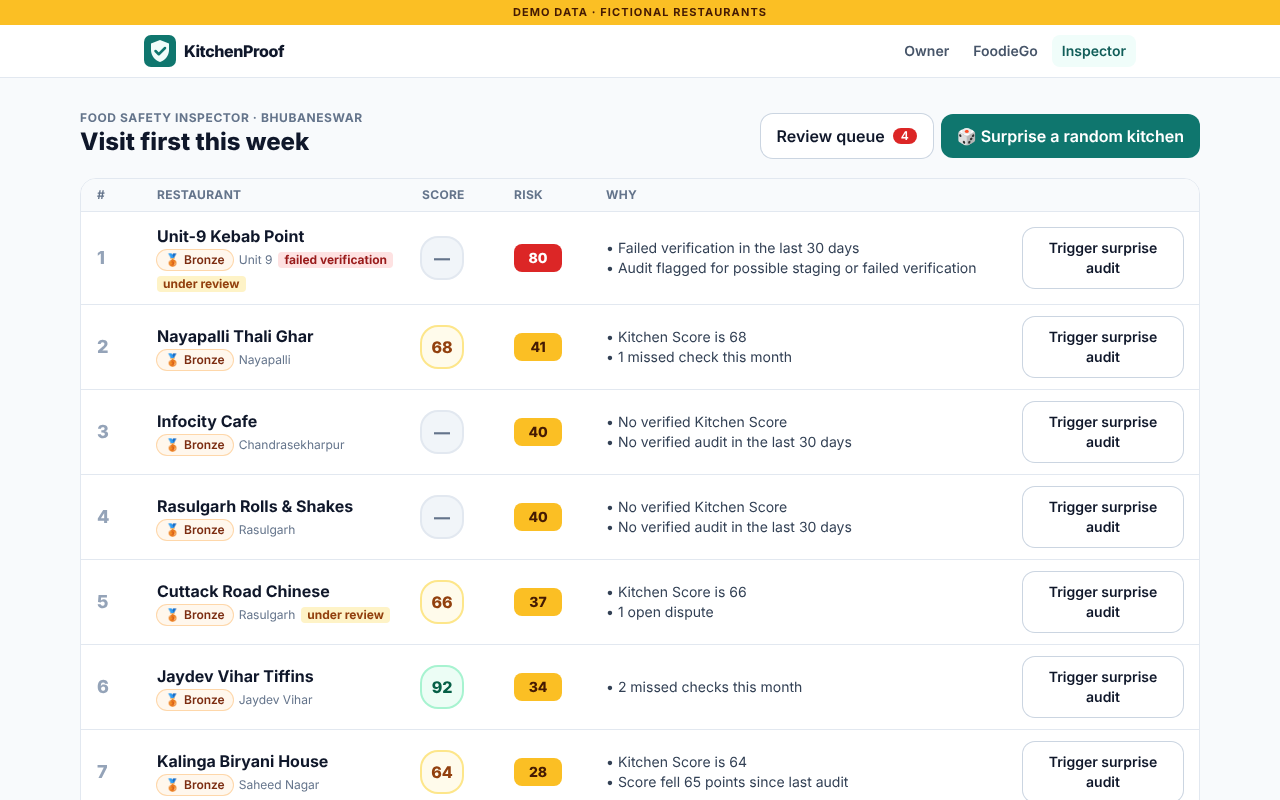
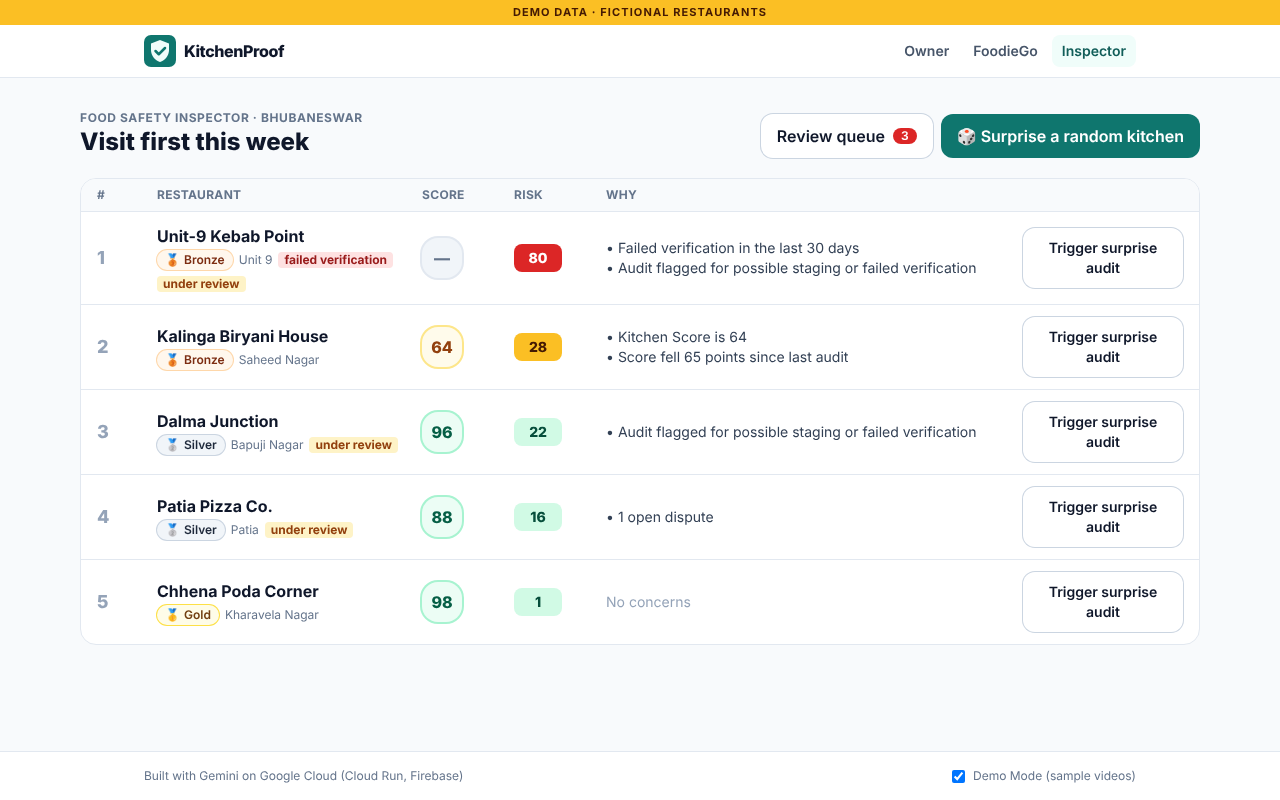
Minimal UI for judges: shorter landing, 5 featured restaurants, less text
Frontend only. Landing keeps the headline, demo button and role cards.
Lists, ranking and review queue show five restaurants that each carry one
part of the story (tour kitchen, Gold, too-perfect flag, failed
verification, open dispute). Tour steps, audit intro and order page text
shortened; risk formula footnote removed. Backend and data unchanged.

Claude-Session: https://claude.ai/code/session_019gZoY9Z6mrtfHUMXc1yJwP

diff --git a/frontend/src/pages/Landing.tsx b/frontend/src/pages/Landing.tsx
@@ -1,105 +1,46 @@
 import { Link, useNavigate } from 'react-router-dom'
 import { useTour } from '../components/Layout'
-import { useConfig } from '../lib/config'
 
 const ROLES = [
-  {
-    to: '/owner?r=r01',
-    emoji: '👩🍳',
-    title: 'Restaurant Owner',
-    text: 'Answer surprise audit requests with a short live phone walk-through. Get a fix list and dispute wrong findings.',
-  },
-  {
-    to: '/customer',
-    emoji: '🛵',
-    title: 'Customer (FoodieGo)',
-    text: 'See a verified Kitchen Score before you order — and request a kitchen check while your food is being made.',
-  },
-  {
-    to: '/inspector',
-    emoji: '🕵',
-    title: 'Food Inspector',
-    text: 'A ranked list of kitchens to visit first, with plain-language reasons and a review queue for disputes and staging flags.',
-  },
-]
-
-const LAYERS = [
-  ['⏱', 'Unannounced', 'Random timing, 10 min to start, 4 min to finish'],
-  ['🎲', 'One check at a time', 'Random checks revealed live by the server'],
-  ['✋', 'Liveness challenge', '“Hold up 3 fingers in front of the stove”'],
-  ['🍳', 'Real order on camera', 'Show order #4521 being made right now'],
-  ['🔍', 'Integrity check', 'Gemini looks for cuts, a different kitchen, “too perfect”'],
-  ['⚖', 'Fair to owners', '“Not verified” ≠ fail; disputes go to a human'],
+  { to: '/owner?r=r01', emoji: '👩🍳', title: 'Restaurant Owner', text: 'Answer a surprise kitchen check' },
+  { to: '/customer', emoji: '🛵', title: 'Customer', text: 'See the kitchen before you order' },
+  { to: '/inspector', emoji: '🕵', title: 'Food Inspector', text: 'Know which kitchen to visit first' },
 ]
 
 export default function Landing() {
   const navigate = useNavigate()
   const [, setTour] = useTour()
-  const { config } = useConfig()
   return (
     <div>
       <section className="bg-gradient-to-b from-brand-900 to-brand-700 text-white">
-        <div className="mx-auto max-w-5xl px-4 py-10 sm:py-16">
-          <p className="text-sm font-semibold uppercase tracking-widest text-brand-200">Surprise kitchen audits · verified by Gemini</p>
-          <h1 className="mt-3 max-w-3xl text-3xl font-extrabold leading-tight sm:text-5xl">
-            See the kitchen before you order.
-          </h1>
-          <p className="mt-4 max-w-2xl text-base text-brand-50 sm:text-lg">
-            Customers never see where their food is cooked, and there will never be enough inspectors. KitchenProof turns any
-            phone into an unannounced, AI-verified kitchen audit — making faking it every day, at random times, while real
-            orders cook, harder than just keeping the kitchen clean.
-          </p>
-          <div className="mt-6 flex flex-wrap gap-3">
-            <button
-              type="button"
-              onClick={() => {
-                setTour(0)
-                navigate('/inspector')
-              }}
-              className="btn bg-white text-lg text-brand-900 hover:bg-brand-50"
-            >
-              ▶ Start the 2-minute demo tour
-            </button>
-            <Link to="/tour" className="btn text-white ring-1 ring-white/40 hover:bg-white/10">
-              What the tour shows
-            </Link>
-          </div>
+        <div className="mx-auto max-w-5xl px-4 py-12 sm:py-20">
+          <h1 className="max-w-3xl text-3xl font-extrabold leading-tight sm:text-5xl">See the kitchen before you order.</h1>
+          <p className="mt-3 text-lg text-brand-50">Surprise phone audits, verified by Gemini.</p>
+          <button
+            type="button"
+            onClick={() => {
+              setTour(0)
+              navigate('/inspector')
+            }}
+            className="btn mt-7 bg-white text-lg text-brand-900 hover:bg-brand-50"
+          >
+            ▶ Start the 2-minute demo
+          </button>
         </div>
       </section>
 
       <section className="page">
-        <h2 className="h-section">Try it as</h2>
         <div className="grid gap-4 sm:grid-cols-3">
           {ROLES.map((r) => (
-            <Link key={r.title} to={r.to} className="card group transition hover:-translate-y-0.5 hover:shadow-md">
-              <div className="text-4xl" aria-hidden>
+            <Link key={r.title} to={r.to} className="card group text-center transition hover:-translate-y-0.5 hover:shadow-md">
+              <div className="text-5xl" aria-hidden>
                 {r.emoji}
               </div>
-              <h3 className="mt-3 text-lg font-bold group-hover:text-brand-700">{r.title}</h3>
+              <h2 className="mt-3 text-lg font-bold group-hover:text-brand-700">{r.title}</h2>
               <p className="mt-1 text-sm text-slate-600">{r.text}</p>
-              <span className="mt-3 inline-block text-sm font-semibold text-brand-700">Open →</span>
             </Link>
           ))}
         </div>
-
-        <h2 className="h-section mt-10">Why it is hard to fake</h2>
-        <div className="grid grid-cols-2 gap-3 sm:grid-cols-3">
-          {LAYERS.map(([icon, title, text]) => (
-            <div key={title} className="rounded-xl bg-white p-3 ring-1 ring-slate-200">
-              <div className="text-2xl" aria-hidden>
-                {icon}
-              </div>
-              <div className="mt-1 font-semibold">{title}</div>
-              <div className="text-xs text-slate-600">{text}</div>
-            </div>
-          ))}
-        </div>
-
-        <p className="mt-8 text-xs text-slate-500">
-          FoodieGo is a made-up food delivery brand. All restaurants are fictional. Kitchen Scores are self-audits verified by
-          AI — not an official FSSAI rating.
-          {config.model && ` Model: ${config.model}.`}
-        </p>
       </section>
     </div>
   )

diff --git a/frontend/src/pages/owner/LiveAudit.tsx b/frontend/src/pages/owner/LiveAudit.tsx
@@ -12,9 +12,9 @@ import type { Audit, Instruction } from '../../lib/types'
 type Phase = 'intro' | 'starting' | 'recording' | 'uploading' | 'analyzing' | 'error'
 
 const SAMPLES = [
-  { id: 'messy', label: 'Messy kitchen', hint: 'Uncovered food in the fridge, dishes in the sink, open waste bag, expired ghee' },
-  { id: 'clean', label: 'Clean kitchen', hint: 'Same kitchen after fixing the problems' },
-  { id: 'too_perfect', label: 'Too-perfect kitchen', hint: 'The same clean video, but during a busy hour (25 orders): spotless and idle looks staged' },
+  { id: 'messy', label: 'Messy kitchen', hint: 'Several hygiene problems' },
+  { id: 'clean', label: 'Clean kitchen', hint: 'Same kitchen, fixed' },
+  { id: 'too_perfect', label: 'Too-perfect kitchen', hint: 'Spotless but idle in a busy hour' },
 ] as const
 
 const FINAL = ['scored', 'inconclusive', 'flagged', 'under_review', 'resolved']
@@ -285,11 +285,9 @@ export default function LiveAudit() {
           </p>
         )}
         <ul className="mt-4 space-y-2 text-sm text-slate-700">
-          <li>📷 We need your <b>camera</b>, <b>microphone</b> and <b>location</b>.</li>
-          <li>🎲 Checks appear <b>one at a time</b>. Show each one, then tap “Done — next”.</li>
-          <li>✋ At some point you will get a quick gesture challenge.</li>
-          <li>🙈 Please <b>keep faces out of frame</b>. We only look at hygiene items.</li>
-          <li>🔒 The video is private, used only for this audit and review, and deleted after 90 days.</li>
+          <li>🎲 Show each check, then tap “Done — next”</li>
+          <li>✋ Do the hand gesture when asked</li>
+          <li>🙈 Keep faces out of frame · video stays private</li>
         </ul>
         {error && <p className="mt-3 rounded-lg bg-red-50 p-2 text-sm text-red-700">{error}</p>}
         <button type="button" onClick={startCamera} disabled={!audit} className="btn-primary mt-5 w-full text-lg">
@@ -300,8 +298,7 @@ export default function LiveAudit() {
       {demo && (
         <div className="card border-amber-300 bg-amber-50">
           <div className="text-xs font-bold uppercase tracking-wider text-amber-800">Demo Mode</div>
-          <h2 className="font-bold">Use a sample video instead of the camera</h2>
-          <p className="text-sm text-amber-900">Recorded by the team following a fixed instruction timeline. Gemini analyses it for real.</p>
+          <h2 className="font-bold">Or use a sample kitchen video</h2>
           <div className="mt-3 grid gap-2">
             {SAMPLES.map((s) => (
               <button

diff --git a/frontend/src/lib/api.ts b/frontend/src/lib/api.ts
@@ -26,11 +26,16 @@ async function call<T>(method: string, path: string, body?: unknown, headers?: R
 }
 
 const get = <T,>(p: string) => call<T>('GET', p)
+
+/** Demo shows a short list: each restaurant illustrates one part of the story. */
+export const FEATURED = ['r01', 'r03', 'r07', 'r11', 'r05']
+const featured = (id: string) => FEATURED.includes(id)
 const post = <T,>(p: string, b?: unknown) => call<T>('POST', p, b ?? {})
 
 export const api = {
   config: () => get<AppConfig>('/config'),
-  restaurants: () => get<{ restaurants: Restaurant[] }>('/restaurants').then((r) => r.restaurants),
+  restaurants: () =>
+    get<{ restaurants: Restaurant[] }>('/restaurants').then((r) => r.restaurants.filter((x) => featured(x.id))),
   restaurant: (id: string) => get<Restaurant>(`/restaurants/${id}`),
   restaurantAudits: (id: string) => get<{ audits: Audit[] }>(`/restaurants/${id}/audits`).then((r) => r.audits),
   audit: (id: string) => get<Audit>(`/audits/${id}`),
@@ -50,13 +55,18 @@ export const api = {
   },
   dispute: (auditId: string, findingId: string, reason: string) =>
     post<Audit>(`/findings/${auditId}/${findingId}/dispute`, { reason }),
-  reviewQueue: () => get<{ items: ReviewItem[] }>('/review').then((r) => r.items),
+  reviewQueue: () => get<{ items: ReviewItem[] }>('/review').then((r) => r.items.filter((q) => featured(q.restaurantId))),
   resolveReview: (itemId: string, decision: string) => post<Audit>(`/review/${itemId}`, { decision }),
   surprise: (restaurantId?: string) =>
-    post<{ auditId: string; restaurantId: string; restaurantName: string }>('/inspector/surprise', { restaurantId }),
+    post<{ auditId: string; restaurantId: string; restaurantName: string }>('/inspector/surprise', {
+      restaurantId: restaurantId ?? FEATURED[Math.floor(Math.random() * FEATURED.length)],
+    }),
   inspectorVisit: (restaurantId: string, outcome: 'confirmed' | 'contradicts') =>
     post<Restaurant>('/inspector/visit', { restaurantId, outcome }),
-  ranking: () => get<{ restaurants: Restaurant[] }>('/risk/ranking').then((r) => r.restaurants),
+  ranking: () =>
+    get<{ restaurants: Restaurant[] }>('/risk/ranking').then((r) =>
+      r.restaurants.filter((x) => featured(x.id)).map((x, i) => ({ ...x, rank: i + 1 })),
+    ),
   expire: () => post<{ expired: string[] }>('/maintenance/expire'),
   order: (id: string) => get<Order>(`/orders/${id}`),
   demoOrder: (restaurantId: string, customerId: string) => post<{ orderId: string }>('/demo/order', { restaurantId, customerId }),

diff --git a/frontend/src/lib/tour.ts b/frontend/src/lib/tour.ts
@@ -6,33 +6,33 @@ export interface TourStep {
 
 export const TOUR: TourStep[] = [
   {
-    title: 'Inspector triggers a surprise audit',
-    body: 'You are a food safety inspector. Press “Trigger surprise audit” on Kalinga Biryani House. The owner does not know when this will happen.',
+    title: 'Inspector sends a surprise check',
+    body: 'Press “Trigger surprise audit” on Kalinga Biryani House.',
     route: '/inspector',
   },
   {
-    title: 'The owner sees a countdown',
-    body: 'The kitchen must start within 10 minutes and finish within 4, or it becomes a public missed check. Press “Start audit now”.',
+    title: 'The owner gets 10 minutes',
+    body: 'Press “Start audit now”.',
     route: '/owner?r=r01',
   },
   {
-    title: 'Live audit, one random check at a time',
-    body: 'Checks are revealed one by one, with a random finger-count liveness challenge. For the demo, pick “Messy kitchen” under “Use a sample video”: a real kitchen video that Gemini analyses live.',
+    title: 'Live audit',
+    body: 'Pick “Messy kitchen”. Gemini analyses the video.',
     route: null,
   },
   {
-    title: 'Report with timestamped evidence',
-    body: 'Every finding has a timestamp: tap ▶ to jump to the moment in the video. “Not verified” lowers coverage, never the score. Try “Dispute” on a finding.',
+    title: 'AI report with evidence',
+    body: 'Tap ▶ on a finding to see the moment in the video.',
     route: null,
   },
   {
-    title: 'Customer badge + spot check during an order',
-    body: 'On FoodieGo the badge updated. Press “Order & request a kitchen check”, then “Respond as the kitchen” and pick “Clean kitchen” (score 92). Two passed checks in 30 days → Silver.',
+    title: 'Customer checks during an order',
+    body: 'Press “Order & request a kitchen check”, then “Respond as the kitchen” → “Clean kitchen”.',
     route: '/customer/restaurant/r01',
   },
   {
-    title: 'Inspector ranking + review queue',
-    body: 'Kitchens are ranked with plain-language reasons. Open the Review queue: Dalma Junction’s spotless, empty kitchen during a busy hour was flagged as possibly staged.',
+    title: 'Inspector review',
+    body: 'Open the Review queue to see a staged “too perfect” kitchen.',
     route: '/inspector',
   },
 ]

diff --git a/frontend/src/pages/customer/CustomerOrder.tsx b/frontend/src/pages/customer/CustomerOrder.tsx
@@ -58,18 +58,12 @@ export default function CustomerOrder() {
           <h2 className="text-lg font-bold">🔍 See the kitchen making your food</h2>
           {!check && (
             <>
-              <p className="mt-1 text-sm text-slate-600">
-                Ask the kitchen for a live, AI-verified walk-through while your order is being prepared. You will see the result,
-                not the raw video.
-              </p>
+              <p className="mt-1 text-sm text-slate-600">The kitchen shows you, live, while your food is made.</p>
               <button type="button" disabled={busy || o.status !== 'preparing'} onClick={request} className="btn mt-3 w-full bg-rose-600 text-white hover:bg-rose-700">
                 {busy ? 'Requesting…' : 'Request a kitchen check'}
               </button>
               {err && <p className="mt-2 rounded-lg bg-red-50 p-2 text-sm text-red-700">{err}</p>}
-              <p className="mt-2 text-xs text-slate-500">
-                Limits: 1 request per restaurant every {config.customerCooldownDays} days; up to {config.customerChecksPerDay}{' '}
-                customer checks per kitchen per day.
-              </p>
+              <p className="mt-2 text-xs text-slate-500">1 request per restaurant every {config.customerCooldownDays} days.</p>
             </>
           )}
           {check && pending && (

diff --git a/frontend/src/pages/Tour.tsx b/frontend/src/pages/Tour.tsx
@@ -15,11 +15,7 @@ export default function Tour() {
   return (
     <div className="page max-w-2xl">
       <h1 className="text-2xl font-extrabold sm:text-3xl">The 2-minute demo tour</h1>
-      <p className="mt-2 text-slate-600">
-        Six steps through the whole story. A guide bar at the bottom of the screen tells you what to press. Everything runs
-        on the deployed app — including a real Gemini analysis of a sample kitchen video
-        {config.geminiAvailable ? '' : ' (cached result while Gemini is not configured)'}.
-      </p>
+      <p className="mt-2 text-slate-600">Six short steps. A guide bar tells you what to press.</p>
       <ol className="mt-6 space-y-3">
         {TOUR.map((s, i) => (
           <li key={s.title} className="card flex gap-3">

diff --git a/frontend/src/pages/owner/AuditReport.tsx b/frontend/src/pages/owner/AuditReport.tsx
@@ -126,10 +126,7 @@ export default function AuditReport() {
               />
             ))}
           </ul>
-          <p className="mt-2 text-xs text-slate-500">
-            “Not verified” means the check was not shown clearly — it lowers coverage, never the score. Findings with low AI
-            confidence go to a human and are never public.
-          </p>
+          <p className="mt-2 text-xs text-slate-500">“Not verified” never lowers the score.</p>
         </section>
       </div>
 

diff --git a/frontend/src/pages/customer/CustomerRestaurant.tsx b/frontend/src/pages/customer/CustomerRestaurant.tsx
@@ -84,10 +84,6 @@ export default function CustomerRestaurant() {
               </li>
             ))}
           </ul>
-          <p className="mt-3 text-sm text-slate-600">
-            Checks are unannounced live phone walk-throughs analysed by Google Gemini, with a liveness challenge and an
-            integrity check. Customers see results and short clips, never the raw video.
-          </p>
           <Disclaimer className="mt-3" />
         </section>
       </div>

diff --git a/frontend/src/pages/inspector/InspectorRanking.tsx b/frontend/src/pages/inspector/InspectorRanking.tsx
@@ -105,10 +105,6 @@ export default function InspectorRanking() {
           ))}
         </ul>
       </div>
-      <p className="text-xs text-slate-500">
-        Risk = (100 − score) × 0.5 + 15 per missed check + 20 if an integrity flag + 10 per open dispute + 10 if the score fell
-        20+ points + 15 if no verified audit in 30 days.
-      </p>
     </div>
   )
 }
